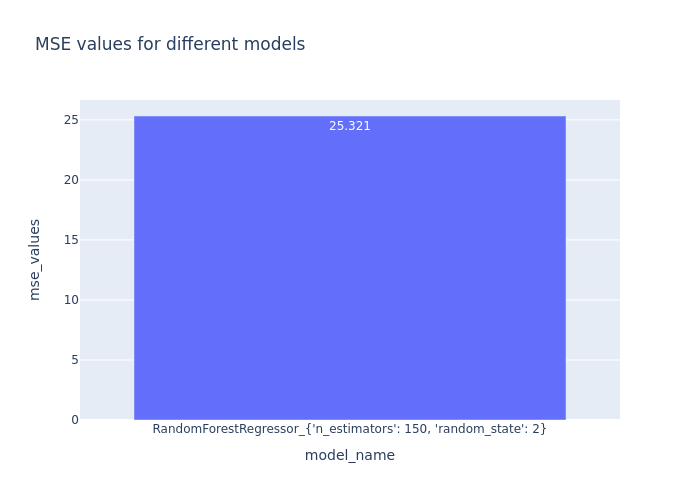
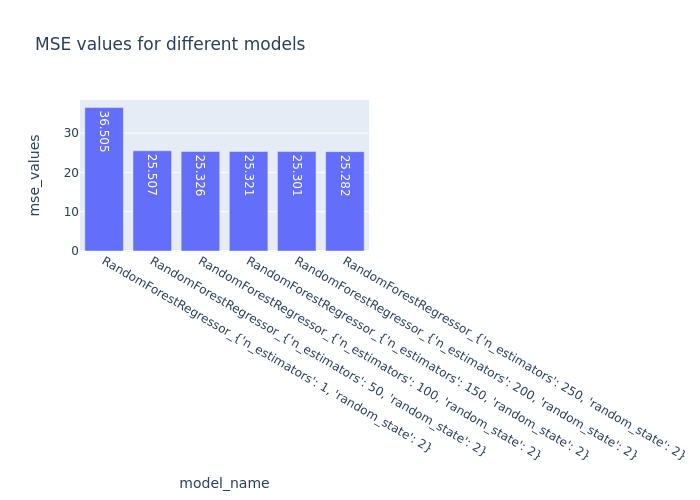
re do grapohs

diff --git a/project/utils/models.py b/project/utils/models.py
@@ -10,7 +10,6 @@ from sklearn.ensemble import GradientBoostingRegressor, RandomForestRegressor
 from sklearn.gaussian_process import GaussianProcessRegressor
 from sklearn.linear_model import ElasticNet, Lasso, LogisticRegression
 from sklearn.metrics import mean_squared_error
-from sklearn.naive_bayes import MultinomialNB
 from sklearn.neighbors import KNeighborsRegressor
 from sklearn.svm import SVC, SVR
 from sklearn.tree import DecisionTreeRegressor
@@ -38,22 +37,17 @@ def train_models(split_dict: dict) -> dict:
     # models are saved as dicts in a list
     models = [
         {"model_type": DummyRegressor, "settings": {}},
-        {
-            "model_type": GaussianProcessRegressor,
-            "settings": {"alpha": 300, "random_state": RANDOM_STATE},
-        },
-        {"model_type": LogisticRegression, "settings": {}},
-        {"model_type": Lasso, "settings": {"alpha": 300, "random_state": RANDOM_STATE}},
+
+        {"model_type": Lasso, "settings": {"alpha": 100, "random_state": RANDOM_STATE}},
         {
             "model_type": RandomForestRegressor,
             "settings": {"n_estimators": 100, "random_state": RANDOM_STATE},
         },
         {
             "model_type": ElasticNet,
-            "settings": {"alpha": 1500, "random_state": RANDOM_STATE},
+            "settings": {"alpha": 100, "random_state": RANDOM_STATE},
         },
         {"model_type": SVR, "settings": {"degree": 2}},
-        {"model_type": SVC, "settings": {}},
         {
             "model_type": GradientBoostingRegressor,
             "settings": {
@@ -64,11 +58,11 @@ def train_models(split_dict: dict) -> dict:
         },
         {
             "model_type": RandomForestRegressor,
-            "settings": {"n_estimators": 100, "random_state": RANDOM_STATE},
+            "settings": {"n_estimators": 50, "random_state": RANDOM_STATE},
         },
         {
             "model_type": RandomForestRegressor,
-            "settings": {"n_estimators": 151, "random_state": RANDOM_STATE},
+            "settings": {"n_estimators": 15, "random_state": RANDOM_STATE},
         },
         {
             "model_type": RandomForestRegressor,
@@ -121,7 +115,7 @@ def train_models(split_dict: dict) -> dict:
     )
     fig.update_traces(textposition="auto")
 
-    fig.write_image(f"{PWD}/figs/MSE_models_V10.png")
+    fig.write_image(f"{PWD}/figs/MANYMODELS_MSE.png")
 
     model_dict = dict(zip(model_strings, clf_vals))
 
@@ -142,7 +136,9 @@ def find_hyper_param(split_dict: dict) -> dict:
 
     models = []
 
-    for i in range(130, 201, 15):
+    for i in range(1, 351, 50):
+        if i == 0:
+            i = 1
         model = {
             "model_type": RandomForestRegressor,
             "settings": {"n_estimators": i, "random_state": RANDOM_STATE},
@@ -189,7 +185,7 @@ def find_hyper_param(split_dict: dict) -> dict:
     )
     fig.update_traces(textposition="auto")
 
-    fig.write_image(f"{PWD}/figs/MSE_hyperparam_models_V1.png")
+    fig.write_image(f"{PWD}/figs/MSE_hyperparam_models_V2.png")
 
     logger.info("Done training hyperparameter models!")
 

diff --git a/project/main.py b/project/main.py
@@ -79,6 +79,7 @@ if __name__ == "__main__":
     split_dict, training_df, test_df, validation_df = main()
 
     model_dict = find_hyper_param(split_dict)
+    # model_dict = train_models(split_dict)
     assert False
 
     #:warning: GRAPHING TAKES A WHILE!
